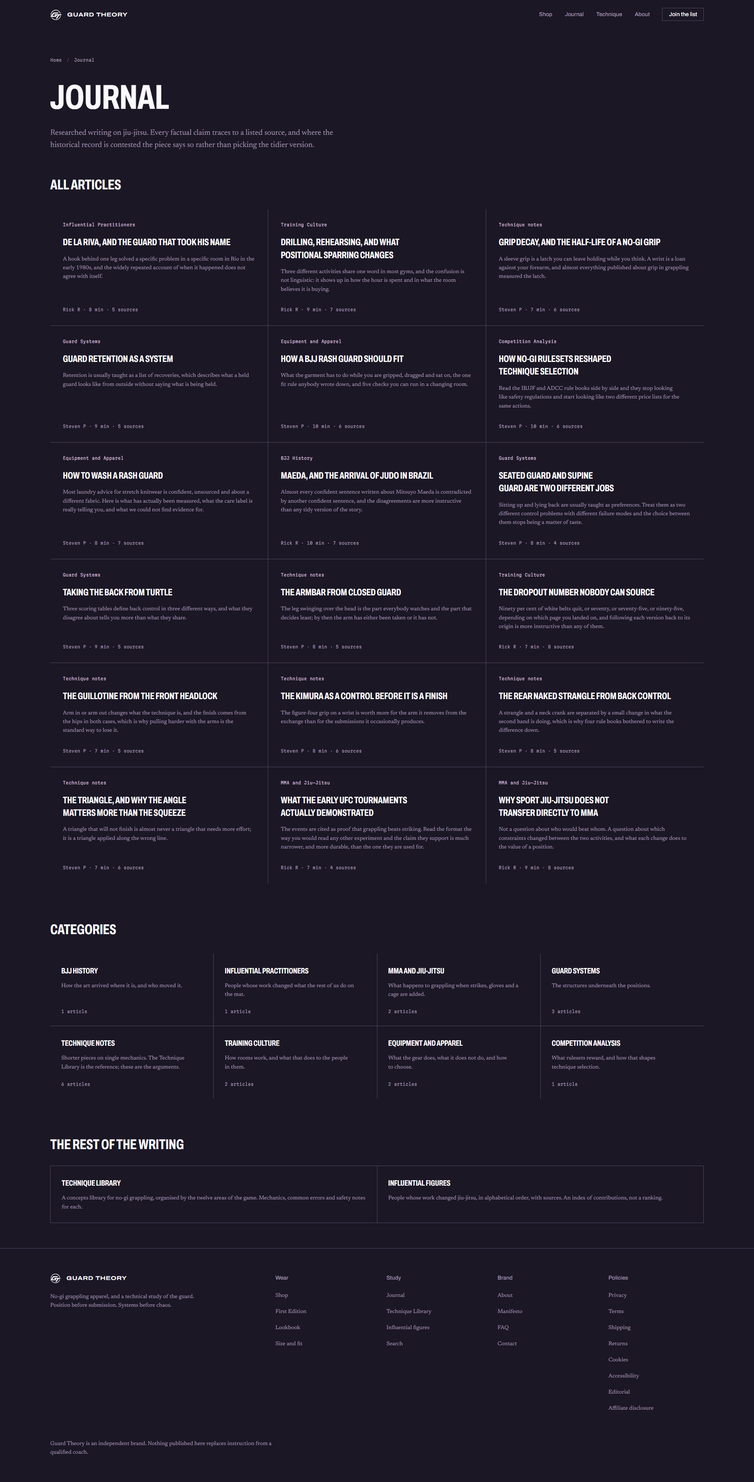
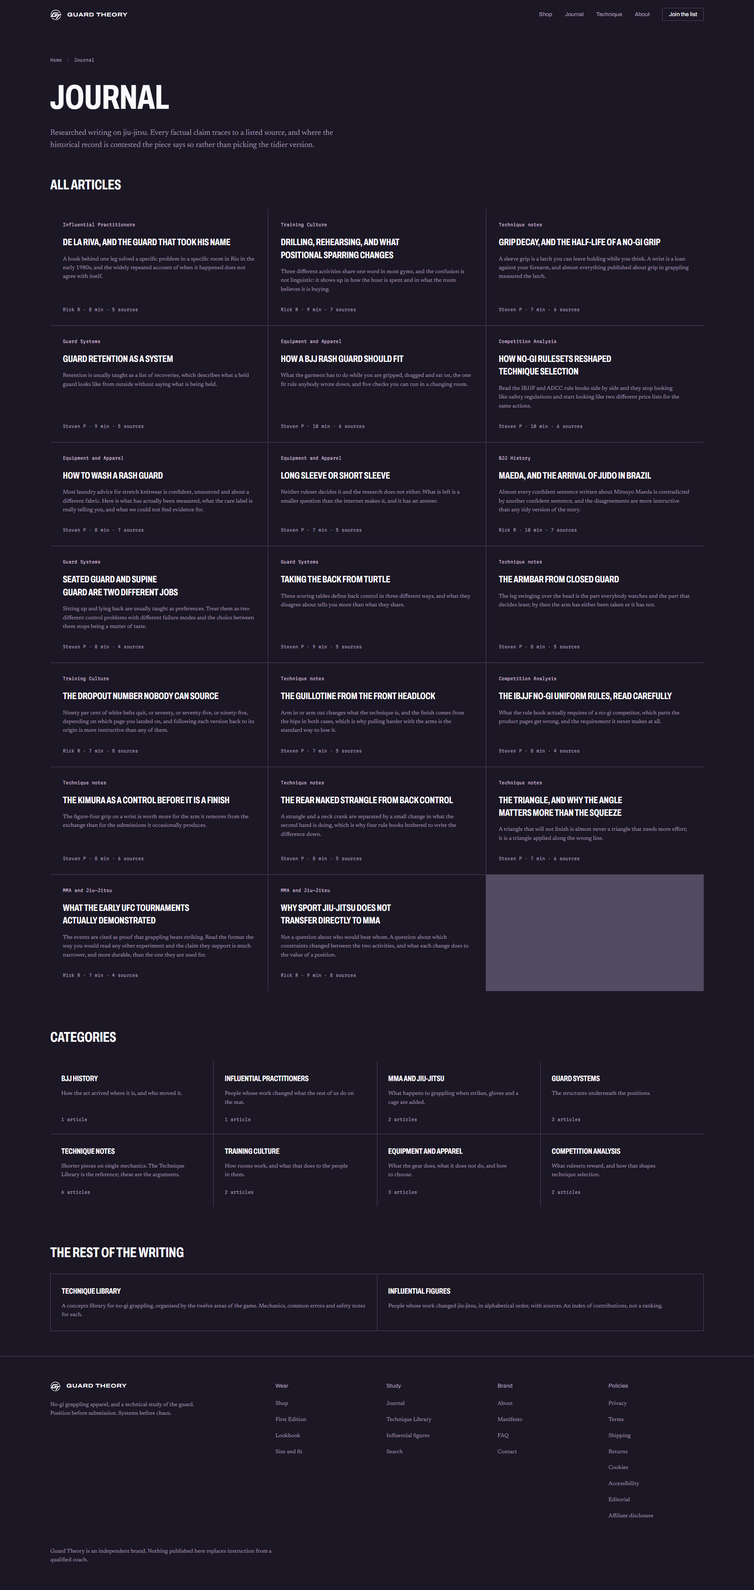
feat: two new Journal pieces, both argued from primary documents
B17 and B15 from docs/article-briefs.md. Both sit in the commercial half of the
Journal — a reader choosing a rash guard for a specific event — and both are
written from documents read for this commit rather than from recollection.

  The IBJJF no-gi uniform rules, read carefully   1,766 words · 4 sources
  Long sleeve or short sleeve                     1,531 words · 5 sources

WHAT THE PRIMARY READING TURNED UP

The IBJJF rule book was downloaded, extracted and read in full. Clause 8.1.16
is quoted verbatim. Three findings are worth the piece on their own:

  - The clause states NO sleeve-length requirement. Every occurrence of the
    word "sleeve" in the document is a gi clause — 8.1.7, the 8.1.11
    measurement list, the grip prohibitions. Long and short sleeve are the same
    garment to this rule book. Several third-party summaries say otherwise.
  - The "at least 10% of the rank color" requirement does not define what the
    proportion is measured against, or how. The article quotes it and declines
    to invent the definition the rule declines to give.
  - The rule book contains no scheme for approving or certifying a garment, a
    brand or a manufacturer. The only approval in it is of an athlete's uniform
    at the event, three inspections per athlete, clause 8.1.11. So "IBJJF legal"
    on a product page is a manufacturer reading a clause, not a certification.

Also: the download page labels the file v6.0 while the footer on every page of
[…]

diff --git a/src/content/journal/entries/ibjjf-no-gi-uniform-rules-read-carefully.ts b/src/content/journal/entries/ibjjf-no-gi-uniform-rules-read-carefully.ts
@@ -1,0 +1,143 @@
+import type { PublishedArticle } from "../types.ts";
+
+/**
+ * Argued from the primary PDF and almost nothing else.
+ *
+ * Every clause quoted here was read out of the rule book downloaded from
+ * ibjjf.com/books-videos on the accessed date below, not from a summary. That
+ * matters more than usual for this subject: the third-party summaries of the
+ * no-gi uniform rules disagree with each other, and several of them state a
+ * sleeve-length requirement that does not exist in the document.
+ *
+ * Two things in here are absences rather than statements — no sleeve rule, and
+ * no certification scheme. Absences are the easiest thing to get wrong, so both
+ * were checked by searching the whole extracted text rather than by reading the
+ * uniform section alone.
+ */
+export const ibjjfNoGiUniformRulesReadCarefully: PublishedArticle = {
+  status: "published",
+  publishedAt: "2026-08-19",
+  authorId: "steven-p",
+  slug: "ibjjf-no-gi-uniform-rules-read-carefully",
+  category: "competition-analysis",
+  title: "The IBJJF no-gi uniform rules, read carefully",
+  standfirst:
+    "What the rule book actually requires of a no-gi competitor, which parts the product pages get wrong, and the requirement it never makes at all.",
+  sections: [
+    {
+      id: "where-the-rules-live",
+      heading: "Where the rules live, and which version you are reading",
+      paragraphs: [
+        "The IBJJF publishes its rule book as a PDF at ibjjf.com/books-videos. Everything below is quoted from that file. It is worth being specific about which file, because the site and the document do not quite agree: the download page labels it v6.0, the PDF is named 2024JUN_IBJJF_Rules_EN.pdf, and the footer printed on every page of the document itself reads VERSION 6.1 2024. We cite the footer, because the footer is on the thing you are actually reading.",
+        "That is a small discrepancy and it does not change a single requirement. It is worth noticing anyway, because it is the first sign of the problem this piece is about. A rule book is a versioned document that supersedes itself, and almost everything written about it downstream — product descriptions, gym advice, blog summaries — is undated. When a summary and the PDF disagree, the PDF wins, and the only way to know they disagree is to open it.",
+        "The no-gi requirements sit in section 8, under Uniform. The clause that does the work is 8.1.16. Two further clauses in 8.3 apply to no-gi as well and are routinely missed, because they are filed under general requirements rather than under the no-gi heading.",
+      ],
+    },
+    {
+      id: "the-rash-guard-clause",
+      heading: "The rash guard clause, quoted",
+      paragraphs: [
+        "Clause 8.1.16 opens: \"For Jiu-Jitsu No-Gi, athletes should abide by the following attire requirements\". Under the sub-heading \"Shirts and Rash Guards\", in full:",
+        "\"Both genders must wear a shirt of elastic material (skin tight) long enough to cover the torso all the way to the waistband of the shorts, colored black, white, or black and white, and with at least 10% of the rank color(belt) to which the athlete belongs. Shirts 100% the color of the athlete's rank (belt) are also permitted.\"",
+        "A note follows it: \"For black belts a small red area will be tolerated, but must not decharacterize the athlete's rank color.\"",
+        "Read that clause for what it actually constrains and the list is short. The material must be elastic and skin tight. The length must reach the waistband of the shorts. The colour must be black, white, or black and white, with at least ten per cent rank colour — or the whole shirt may be the rank colour instead. That is the requirement in its entirety.",
+      ],
+    },
+    {
+      id: "the-requirement-that-is-not-there",
+      heading: "The requirement that is not there",
+      paragraphs: [
+        "Nothing in 8.1.16 says anything about sleeves. Not their length, not their presence.",
+        "This is worth stating carefully, because it is an absence and absences are easy to assert and hard to check. The word \"sleeve\" does appear in the rule book, repeatedly — at 8.1.7, which requires that a gi top's sleeves come to no more than 2 cm from the athlete's wrist; in the measurement list at 8.1.11, which checks sleeve length, sleeve width and the slack in a gi sleeve; and in the grip prohibitions, which describe grabbing the opening of an opponent's sleeve. Every one of those is a gi clause. The no-gi attire clause does not mention sleeves at all.",
+        "So a long sleeve rash guard and a short sleeve rash guard are, as far as this document is concerned, the same garment. Both satisfy 8.1.16 if they are elastic, skin tight, long enough in the torso and correct in colour. If you have been told that one of them is required, or that one of them is banned, that instruction did not come from here.",
+        "What the clause does exclude, by requiring a shirt that covers the torso to the waistband, is competing bare-chested. It says nothing explicit about sleeveless tops, which is a genuine gap rather than a hidden rule — the clause requires a shirt with a stated torso length and stated colours, and stops.",
+      ],
+    },
+    {
+      id: "the-ten-per-cent",
+      heading: "The ten per cent, and what the rule does not define",
+      paragraphs: [
+        "\"At least 10% of the rank color(belt) to which the athlete belongs\" is the most-quoted and least-read part of the clause. The adult ranks it refers to are white, blue, purple, brown and black; the IBJJF's graduation-system page describes the progression as running \"from White to Red\".",
+        "Here is what the sentence does not say. It does not say ten per cent of what. Not of the front, not of the total surface area, not of the visible area when worn. It does not say how the proportion is measured, or by whom, or with what tolerance. It gives a number and leaves every term in it undefined.",
+        "That is not a criticism of the federation so much as an observation about how the requirement gets transmitted. Downstream, the undefined number hardens into confident specifics — a percentage of the front panel, a stripe of a particular width, a sleeve-band convention — none of which appear in the document. If you are checking a garment against the rule, you are checking it against a proportion the rule declines to define, and the person applying it is an inspector at an event.",
+        "The clause also offers an escape from the arithmetic entirely, in its second sentence: a shirt that is one hundred per cent the rank colour is permitted. For a white belt or a black belt that is a straightforward garment. It is the option least often mentioned in summaries of the rule, and it is the only one where the ten per cent cannot be got wrong.",
+      ],
+    },
+    {
+      id: "shorts-and-spats",
+      heading: "Shorts and spats are separate clauses, and they are not symmetrical",
+      paragraphs: [
+        "For men, 8.1.16 requires \"Board shorts colored black, white, black and white, and/or the color of the rank (belt) to which the athlete belongs, without pockets or with the pockets stitched completely shut, without buttons, exposed drawstrings, zippers or any form of plastic or metal that could present a risk to the opponent, long enough to cover at least halfway down the thigh (no more than 15 cm from the knee), and no longer than the knee.\" It then permits \"compression shorts made of elastic material (skin tight) worn beneath the shorts\", in the same colours.",
+        "For women, the clause reads differently: \"Shorts, compression pants (skin-tight spats) and/or compression shorts colored black, white, black and white, and/or the color of the rank (belt) to which the athlete belongs\", with the same prohibitions on pockets, buttons, zippers and hard fittings, and the same length requirement — halfway down the thigh, no more than 15 cm from the knee, no longer than the knee.",
+        "The asymmetry is in the document, not in this summary. The women's clause names spats as a permitted garment in their own right. The men's clause permits compression shorts beneath board shorts and does not name full-length spats at all. Whatever the intent, a competitor reading the clause that applies to them will find two different lists.",
+        "The length requirement is the one that catches people, because it is specific in both directions. Shorts must reach at least halfway down the thigh and come no more than 15 cm from the knee, and must not be longer than the knee. That is a window, not a minimum.",
+      ],
+    },
+    {
+      id: "the-clauses-filed-elsewhere",
+      heading: "The clauses filed elsewhere that still apply",
+      paragraphs: [
+        "Clause 8.3.10 states: \"It is mandatory that athletes wear undergarments for all competitions, regardless if it is a Gi or No-Gi event. The undergarment should be 'brief-type' only.\" It is filed under further requirements rather than under no-gi attire, and it names no-gi explicitly. It is close to absent from the summaries.",
+        "Clause 8.3.7 forbids \"any foot gear, headgear, hair pins, jewelry, cups (genital protectors), or any other protector fashioned of hard material that may cause harm to an opponent or the athlete him/herself\", and adds that eye protectors are forbidden \"even if they are made for sports practices\". Clause 8.3.9 forbids joint protectors — knee and elbow braces are the examples given — that \"increase body volume to the point of making it harder for an opponent to grip the Gi\".",
+        "Clause 8.3.8 sets out the requirements for a head cover in the female divisions: fixed, made with elastic fabric or elastic at the borders, no plastic or hard materials, no strings, clear of any inscription or logo, and black, white, black and white, or the rank colour. A single-piece cover of the wet-suit type, covering neck, ears and hair, is permitted on the same colour terms.",
+      ],
+    },
+    {
+      id: "what-ibjjf-legal-is-worth",
+      heading: "What \"IBJJF legal\" on a product page is worth",
+      paragraphs: [
+        "The rule book contains no provision for approving, certifying or listing a garment, a brand or a manufacturer. We looked for one. The only approval it describes is of an athlete's uniform, at the event: clause 8.1.11 states that \"Prior to weighing in, the inspector will verify that the specifications of the uniform meet regulations\", and the same section allows that \"Every athlete is entitled to 3 (three) uniform inspections for approval\". The subject of that sentence is the athlete, not the product.",
+        "So a phrase like \"IBJJF legal\" on a product page is a manufacturer's reading of a clause. It is not a certification, because there is nothing to be certified by. It may well be an accurate reading — most of the requirements are simple enough — but it carries exactly as much authority as the person who wrote it, and it cannot be checked without doing what this piece did: opening the PDF.",
+        "It is also, necessarily, a claim about a garment and not about you. The rank-colour requirement depends on your belt. A shirt that satisfies the clause for one competitor does not satisfy it for another, and no product page knows which one you are.",
+      ],
+    },
+    {
+      id: "reading-a-rule-book-as-a-constraint",
+      heading: "Reading a rule book as a design constraint",
+      paragraphs: [
+        "There is a reason the no-gi category looks the way it does, and it is largely this clause. Black, white, black and white, or the rank colour, is not a shared aesthetic preference among a dozen brands. It is a colour requirement with four options in it, and the category converged on it because competitors buy garments they can compete in.",
+        "That is a constraint worth designing inside rather than around, and it is the constraint Guard Theory started from. It also means the interesting decisions are elsewhere: in construction, in how a garment behaves when it is being gripped and dragged, in whether the specification is published at all. The rule book has already decided the colours.",
+        "One practical closing note. Requirements differ by division and by event, they are versioned, and this article describes one document as it stood on the date below. Before an event, download the current PDF and read clause 8.1.16 yourself. It is four paragraphs long. Everything written about it, including this, is longer.",
+      ],
+    },
+  ],
+  sources: [
+    {
+      title:
+        "IBJJF Rule Book, section 8 Uniform: clause 8.1.16 No-Gi attire requirements, clause 8.1.11 uniform inspection, clauses 8.3.7 to 8.3.10 further requirements, clause 8.1.7 gi sleeve length. PDF filename 2024JUN_IBJJF_Rules_EN.pdf; page footer reads VERSION 6.1 2024",
+      publisher: "International Brazilian Jiu-Jitsu Federation",
+      url: "https://ibjjf.com/books-videos",
+      accessed: "2026-08-19",
+    },
+    {
+      title:
+        "Books and Videos download page, which labels the current rule book v6.0 where the document footer reads v6.1",
+      publisher: "International Brazilian Jiu-Jitsu Federation",
+      url: "https://ibjjf.com/books-videos",
+      accessed: "2026-08-19",
+    },
+    {
+      title:
+        "Graduation System, describing the belt progression from White to Red and publishing the detail as separate downloadable documents",
+      publisher: "International Brazilian Jiu-Jitsu Federation",
+      url: "https://ibjjf.com/graduation-system",
+      accessed: "2026-08-19",
+    },
+    {
+      title:
+        "New Rules Updates, the federation's own record that the rule book is revised and superseded",
+      publisher: "International Brazilian Jiu-Jitsu Federation",
+      url: "https://ibjjf.com/news/new-rules-updates",
+      accessed: "2026-08-19",
+    },
+  ],
+  relatedSlugs: [
+    "how-no-gi-rulesets-reshaped-technique-selection",
+    "how-a-bjj-rash-guard-should-fit",
+  ],
+  contestedNotes: [
+    "The IBJJF download page labels the current rule book v6.0 while the footer printed on the document reads VERSION 6.1 2024. This article quotes the footer. The discrepancy does not affect any requirement quoted here.",
+    "That the rule book states no sleeve-length requirement for no-gi is an absence rather than a statement, and absences can be created by a bad search. It was checked by extracting the full text of the PDF and reading every occurrence of the word \"sleeve\" in the document, all of which are gi clauses.",
+    "The ten per cent rank-colour requirement is quoted exactly as written. The rule does not define what the proportion is measured against, and this article does not supply a definition the document does not contain.",
+  ],
+};

diff --git a/src/content/journal/entries/long-sleeve-or-short-sleeve.ts b/src/content/journal/entries/long-sleeve-or-short-sleeve.ts
@@ -1,0 +1,140 @@
+import type { PublishedArticle } from "../types.ts";
+
+/**
+ * The hard part of this piece was not the answer, it was refusing three of them.
+ *
+ * Sleeve length is the most-asked rash guard question and almost every existing
+ * treatment of it answers with a health claim, a thermal claim or a performance
+ * claim. All three are unavailable here: the standing prohibitions rule out
+ * medical and hygiene claims outright, and the compression and sports-clothing
+ * literature — read for this article rather than cited from memory — does not
+ * support the thermal one either.
+ *
+ * What is left is genuinely useful: the rulesets do not decide it, the research
+ * does not decide it, and the reasons that remain are ones a reader can check
+ * against their own room. The house line on compression, set in
+ * how-a-bjj-rash-guard-should-fit, is preserved exactly.
+ */
+export const longSleeveOrShortSleeve: PublishedArticle = {
+  status: "published",
+  publishedAt: "2026-08-19",
+  authorId: "steven-p",
+  slug: "long-sleeve-or-short-sleeve",
+  category: "equipment-and-apparel",
+  title: "Long sleeve or short sleeve",
+  standfirst:
+    "Neither ruleset decides it and the research does not either. What is left is a smaller question than the internet makes it, and it has an answer.",
+  sections: [
+    {
+      id: "the-question-under-the-question",
+      heading: "The question under the question",
+      paragraphs: [
+        "Ask which sleeve length is better and you will get a confident answer in about four seconds. Ask why, and the answers separate into three kinds: a rule you must follow, a thermal effect you will feel, and a protective benefit you will get. This piece takes all three seriously enough to go and check them, and two of the three do not survive.",
+        "That is not a disappointing result. It narrows the question to the part you can actually evaluate, which is your own training, your own room and what you personally want your forearms to be doing.",
+      ],
+    },
+    {
+      id: "the-rules-do-not-decide-it",
+      heading: "The rules do not decide it",
+      paragraphs: [
+        "The IBJJF rule book sets out no-gi attire at clause 8.1.16. On shirts it requires \"a shirt of elastic material (skin tight) long enough to cover the torso all the way to the waistband of the shorts, colored black, white, or black and white, and with at least 10% of the rank color(belt) to which the athlete belongs\", and permits shirts that are entirely the rank colour instead.",
+        "There is no sleeve requirement in that clause, or anywhere else in the document that applies to no-gi. The word appears often in the rule book and every occurrence is a gi clause — sleeve length at 8.1.7, sleeve width and slack in the measurement list, sleeve grips in the prohibitions. We went through the extracted text of the whole PDF to be sure of that, because it is an absence and absences are easy to assert carelessly. The longer version of this reading is in our piece on the no-gi uniform rules.",
+        "The other ruleset most no-gi competitors will meet is the ADCC's. Its published rules and regulations page sets out match structure, scoring, penalties and a list of prohibited techniques. It contains no uniform requirement at all — no attire section, no mention of a rash guard. Clothing appears twice: once to say \"Gi (Kimono), Wrestling shoes are optional\", and once in the prohibition on \"No use holding of the T-Shirt or shorts\", which is a grip rule. The page carries no version number and no revision date, which is worth knowing before you rely on any summary of it.",
+        "So: two rulesets, neither of which regulates sleeve length. If a shop, a coach or a product page tells you one length is required for competition, ask which clause. There is not one.",
+      ],
+    },
+    {
+      id: "the-heat-argument",
+      heading: "The heat argument, and what the research actually says",
+      paragraphs: [
+        "The intuitive claim is that a long sleeve is hotter. It is plausible and it may well be true of your experience. It is not something the literature currently establishes, and it is worth being precise about what has and has not been measured, because this is where most writing on the subject quietly invents a number.",
+        "The largest recent synthesis of the compression-garment research is a systematic scoping review by Weakley and colleagues in Sports Medicine in 2021, covering 183 studies. Thermoregulation was the subject of nineteen of them — around ten per cent of the field. Their summary of that subset is that compression garments increase skin temperature at the point of coverage, and that these changes do not influence core body temperature, sweat rate or body mass loss. In hot environmental conditions, between 32 and 40 degrees, they describe the evidence as conflicting.",
+        "The other relevant body of work is on sports clothing generally. A 2022 narrative review in Sports Medicine - Open by Di Domenico, Hoffmann and Collins looked at fabric and fit in exercise in the heat and found the picture unsettled in the same way. On materials it reports that \"few studies have identified significant differences in thermo-physiological...measures between natural and synthetic fabrics\". On fit — the question closest to this one — it states plainly that \"very few studies have compared the impact of tight-fitted and loose-fitted clothing on thermoregulation...during exercise in the heat\". Its overall verdict on the field is that \"Disparities across methodologies, and insufficient applications of thermal-physiological and perceptual strain, have led to mixed findings\".",
+        "The one property that review found more consistent than fabric type was air permeability — how readily a fabric exchanges air. That points somewhere useful and slightly awkward for the question in the title: the variable with the better evidence behind it is a property of the fabric, not the length of the sleeve. A tightly knitted long sleeve and a loosely knitted long sleeve are not the same garment, and comparing a long sleeve to a short sleeve almost never holds fabric constant.",
+        "None of this research put a rash guard on a grappler. That is the same position we took on compression and recovery in how a BJJ rash guard should fit, and nothing found for this article changes it. We are not going to tell you a long sleeve will make you hotter by some amount, because nobody has measured that.",
+      ],
+    },
+    {
+      id: "skin-contact",
+      heading: "Skin contact, stated without a claim",
+      paragraphs: [
+        "The other common argument for long sleeves is about what happens where your forearm meets the mat and the other person. We are not going to make that argument, and it is worth saying why rather than just leaving it out.",
+        "Claims in this area are medical claims. Whether a garment reduces skin abrasion, or affects the transmission of anything between training partners, is a question for infection and injury research, and it is not a question a manufacturer should answer about its own product on the strength of it being obvious. Our editorial policy rules out medical and hygiene claims, and this is exactly the case it exists for.",
+        "What can be said without a claim is the mechanical difference, which is simply that one garment puts fabric between your forearm and the mat and the other does not. What that is worth to you depends on your skin, your room and your training, and you are better placed to judge it than we are.",
+      ],
+    },
+    {
+      id: "grip-and-friction",
+      heading: "What actually changes on the forearm",
+      paragraphs: [
+        "There is a real difference between the two garments and it is not thermal. In no-gi there is no cloth to grip, so control is built on the body: wrists, elbows, the crook of the arm, the head, hips. A long sleeve changes what one of those surfaces presents. Your forearm offers fabric rather than skin, and fabric on fabric behaves differently from skin on skin.",
+        "We are deliberately not going to quantify that, in either direction. We are not aware of a study measuring grip friction on a covered versus uncovered forearm in grappling, and if one exists we have not read it. Anyone telling you a long sleeve makes you harder to grip, or easier, is describing their own experience — which is legitimate as experience and is not a finding.",
+        "What is worth knowing is that this is the variable most likely to matter to you, and it is testable in a way the thermal argument is not. It shows up in a single round, against a partner who grips your wrists, and you do not need a study to notice it.",
+      ],
+    },
+    {
+      id: "a-decision-rule",
+      heading: "A decision rule, and where it breaks",
+      paragraphs: [
+        "If you want a rule rather than a survey: buy the short sleeve first if your room is warm and your sessions are long, and buy the long sleeve first if you want your forearms covered for reasons you already know. Then own both, because the second one is not a duplicate.",
+        "That rule breaks in three places, and they are worth naming. It breaks if your room enforces a uniform, in which case the room decides and nothing here applies. It breaks if you are buying for a specific competition, in which case read that event's own rules rather than a general one — requirements differ by division and by event, and rule books are revised. And it breaks on fit: a rash guard that does not stay put is a worse garment at either length, which is a question of cut and construction rather than sleeves, and we have written about it separately.",
+      ],
+    },
+    {
+      id: "what-we-chose",
+      heading: "What we chose, and what that commits us to",
+      paragraphs: [
+        "Guard Theory makes both lengths, which is a disclosure rather than a recommendation: we have an interest in you concluding that the question is genuine. It is also why this piece leans as hard as it does on the primary documents. The most useful thing we can do with the question is publish the reasoning and let you disagree with it.",
+        "What we will not do is settle it with a claim we cannot support. Both lengths are legal under both rulesets we have read. The thermal literature is thin and mixed and does not cover grappling. The protective argument is a medical one and is not ours to make. The one difference we are confident about is what your forearm presents to a grip, and you can test that yourself this week.",
+        "The specification for both garments is published in full on each product page — fabric, weight, seam construction, print method — because that is what you are actually choosing between once the sleeve question stops being a rule and starts being a preference.",
+      ],
+    },
+  ],
+  sources: [
+    {
+      title:
+        "IBJJF Rule Book, clause 8.1.16 No-Gi attire requirements, which states no sleeve-length requirement; gi sleeve clauses at 8.1.7 and in the 8.1.11 measurement list. PDF filename 2024JUN_IBJJF_Rules_EN.pdf; page footer reads VERSION 6.1 2024",
+      publisher: "International Brazilian Jiu-Jitsu Federation",
+      url: "https://ibjjf.com/books-videos",
+      accessed: "2026-08-19",
+    },
+    {
+      title:
+        "ADCC Rules and Regulations: contains no uniform or attire requirement; clothing appears only as \"Gi (Kimono), Wrestling shoes are optional\" and in the grip prohibition on holding the T-shirt or shorts. Published without a version number or revision date",
+      publisher: "Abu Dhabi Combat Club",
+      url: "https://adcombat.com/adcc-rules-regulations/",
+      accessed: "2026-08-19",
+    },
+    {
+      title:
+        "Weakley J, Broatch J, O'Riordan S, Morrison M, Maniar N, Halson SL. Putting the Squeeze on Compression Garments: Current Evidence and Recommendations for Future Research: A Systematic Scoping Review. Sports Medicine 2021;52(5):1141-1160. doi:10.1007/s40279-021-01604-9. 183 studies, of which 19 thermoregulatory",
+      publisher: "Sports Medicine, via PubMed Central",
+      url: "https://pmc.ncbi.nlm.nih.gov/articles/PMC9023423/",
+      accessed: "2026-08-19",
+    },
+    {
+      title:
+        "Di Domenico I, Hoffmann SM, Collins PK. The Role of Sports Clothing in Thermoregulation, Comfort, and Performance During Exercise in the Heat: A Narrative Review. Sports Medicine - Open 2022;8(1):58. doi:10.1186/s40798-022-00449-4",
+      publisher: "Sports Medicine - Open, via PubMed Central",
+      url: "https://pmc.ncbi.nlm.nih.gov/articles/PMC9051004/",
+      accessed: "2026-08-19",
+    },
+    {
+      title:
+        "Jovanovic T, Penava Z, Vrljicak Z. Impact of the Elastane Percentage on the Elastic Properties of Knitted Fabrics under Cyclic Loading. Materials 2022;15(19):6512. doi:10.3390/ma15196512. Measures elastic recovery under repeated loading, not thermal comfort",
+      publisher: "MDPI, via PubMed Central",
+      url: "https://pmc.ncbi.nlm.nih.gov/articles/PMC9570736/",
+      accessed: "2026-08-19",
+    },
+  ],
+  relatedSlugs: [
+    "how-a-bjj-rash-guard-should-fit",
+    "ibjjf-no-gi-uniform-rules-read-carefully",
+    "how-no-gi-rulesets-reshaped-technique-selection",
+  ],
+  contestedNotes: [
+    "That neither the IBJJF rule book nor the ADCC published rules regulate sleeve length is an absence in both documents rather than a positive statement in either. Both were read for this article on the accessed dates given.",
+    "The ADCC rules page is published without a version number or revision date, so it cannot be cited as of a particular edition — only as of the date it was read.",
+    "The thermal research cited here concerns compression garments and sports clothing in general. None of it tested a rash guard in grappling, and this article makes no thermal, performance, recovery, hygiene or injury-prevention claim about either sleeve length.",
+  ],
+};

diff --git a/tests/e2e/metadata.spec.ts b/tests/e2e/metadata.spec.ts
@@ -344,3 +344,54 @@ test("every page's description is the length search can use", async ({ page }) =
     ).toBeGreaterThanOrEqual(FLOOR);
   }
 });
+
+/**
+ * The date a reader sees must be the date the crawler is given.
+ *
+ * `/policies/editorial` promises exactly this: "An article carries the date it
+ * was genuinely published, and that is the date shown to you and to search
+ * engines alike." It was not true. A date-only ISO string parses as UTC
+ * midnight, and formatting it in the server's local zone renders the previous
+ * day anywhere west of Greenwich — so every article displayed a date one day
+ * earlier than the one in its own `dateTime` attribute and its structured data.
+ *
+ * Nothing caught it because both dates were internally consistent: the stored
+ * value was right, the machine-readable attribute was right, and only the
+ * rendered text was wrong. It is the kind of defect that is invisible until you
+ * compare the two things nobody thinks to compare.
+ */
+test("the published date shown matches the date published", async ({ page }) => {
+  test.setTimeout(120_000);
+
+  const published = ARTICLES.filter(isPublished);
+  expect(published.length, "no published articles to check").toBeGreaterThan(0);
+
+  const MONTHS = [
+    "January", "February", "March", "April", "May", "June",
+    "July", "August", "September", "October", "November", "December",
+  ];
+
+  for (const article of published.slice(0, 6)) {
+    await page.goto(`/journal/${article.slug}`, { waitUntil: "load" });
+
+    const time = page.locator("time[dateTime], time[datetime]").first();
+    const attribute =
+      (await time.getAttribute("datetime")) ?? (await time.getAttribute("dateTime"));
+    const shown = ((await time.textContent()) ?? "").trim();
+
+    expect(attribute, `${article.slug} renders no machine-readable date`).toBe(
+      article.publishedAt,
+    );
+
+    // Build the expected human date from the stored string directly, with no
+    // Date parsing — parsing is what caused the bug.
+    const [year, month, day] = article.publishedAt.split("-");
+    const expected = `${Number(day)} ${MONTHS[Number(month) - 1]} ${year}`;
+
+    expect(
+      shown,
+      `${article.slug} shows "${shown}" but its publishedAt is ${article.publishedAt} — ` +
+        `the date a reader sees and the date a crawler is given must be the same`,
+    ).toBe(expected);
+  }
+});

diff --git a/src/content/journal/index.ts b/src/content/journal/index.ts
@@ -10,6 +10,8 @@ import { drillingRehearsingAndPositionalSparring } from "./entries/drilling-rehe
 import { guardRetentionAsASystem } from "./entries/guard-retention-as-a-system.ts";
 import { howABjjRashGuardShouldFit } from "./entries/how-a-bjj-rash-guard-should-fit.ts";
 import { howNoGiRulesetsReshapedTechniqueSelection } from "./entries/how-no-gi-rulesets-reshaped-technique-selection.ts";
+import { ibjjfNoGiUniformRulesReadCarefully } from "./entries/ibjjf-no-gi-uniform-rules-read-carefully.ts";
+import { longSleeveOrShortSleeve } from "./entries/long-sleeve-or-short-sleeve.ts";
 import { maedaAndTheArrivalOfJudoInBrazil } from "./entries/maeda-and-the-arrival-of-judo-in-brazil.ts";
 import { takingTheBackFromTurtle } from "./entries/taking-the-back-from-turtle.ts";
 import { theArmbarFromClosedGuard } from "./entries/the-armbar-from-closed-guard.ts";
@@ -30,6 +32,8 @@ export const ARTICLES: Article[] = [
   guardRetentionAsASystem,
   howABjjRashGuardShouldFit,
   howNoGiRulesetsReshapedTechniqueSelection,
+  ibjjfNoGiUniformRulesReadCarefully,
+  longSleeveOrShortSleeve,
   howToWashARashGuard,
   maedaAndTheArrivalOfJudoInBrazil,
   seatedGuardAndSupineGuard,

diff --git a/src/app/journal/[slug]/page.tsx b/src/app/journal/[slug]/page.tsx
@@ -165,6 +165,16 @@ export default async function ArticlePage({ params }: Params) {
                       {new Date(
                         (article as { publishedAt: string }).publishedAt,
                       ).toLocaleDateString("en-GB", {
+                        // A date-only ISO string parses as UTC midnight, and
+                        // formatting it in the server's local zone renders the
+                        // day before west of Greenwich. Every article on the
+                        // site was showing a date one day earlier than the one
+                        // in its own dateTime attribute — the human-readable
+                        // date and the machine-readable date disagreeing, on a
+                        // site whose editorial policy promises they are the
+                        // same. Format in UTC, the zone the string was written
+                        // in.
+                        timeZone: "UTC",
                         day: "numeric",
                         month: "long",
                         year: "numeric",
